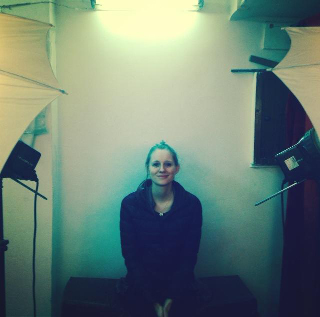
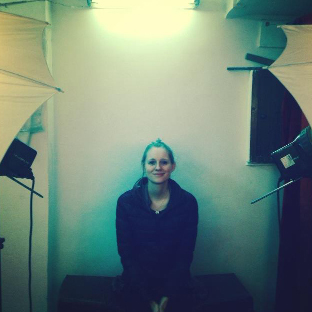
turning pictures to square about

diff --git a/_sass/_layout.scss b/_sass/_layout.scss
@@ -366,3 +366,35 @@ li.herbs {
     }
 }
 
+/**
+ * HOME
+ */
+
+ .thumbnail {
+    padding: 15px 15px 0px 15px;
+    margin: 40px 10px 10px 10px;
+    #name {
+        color: $grey-color-dark;
+    }
+    #icecream {
+        color: $grey-color-dark;
+    }
+    #bio {
+        color: $grey-color;
+    } 
+    #img {
+        position:relative;
+        padding-bottom:100%;
+        margin: auto;
+        overflow:hidden;
+        border-radius: 5px;
+        img {
+            position:absolute;
+        left: -9999px;
+        top: -9999px;
+        right: -9999px;
+        bottom: -9999px;
+        margin: auto;
+        }
+    }
+}

diff --git a/about.md b/about.md
@@ -4,77 +4,56 @@ title: About
 permalink: /about/
 ---
 
-<table id="bio">
-
-  <tr> 
-    <td>
-      <div class="bioleft">
-      <strong>Adam</strong> is a refugee from the world of finance, and previously raised money for countries in Latin America and advised on M&A. He enjoys racing at the velodrome, playing poker, bourbon, and going to DIY gigs in his free time.  
-<br></br> <br></br>
-<em>Favorite Ice Cream?</em> Peanut Butter Cup
+<div class="row">
+  <div class="col-lg-6 col-md-6 col-sm-6 col-sx-12">
+    <div class="thumbnail">
+      <div id="img">
+        <img src="/blog/images/about/adam.jpg">
       </div>
-     </td>
-     <td>
-      <img class="biopicright" src="/blog/images/about/adam.jpg"/>
-    </td> 
-  </tr>
-     
-    <tr>
-    <td>
-    <br> </br>
-    </td>
-</tr>
-     
- <tr> 
-    <td>
-<img class="biopicleft" src="/blog/images/about/emma.jpg"/>
-</td>
-         <td>
-<div class="bioright">
-After graduating <strong>Emma</strong> worked at a newspaper before moving to Delhi and starting a string of jobs with start-ups. Loves yoda, yoga, and six music. Future geek-girl-developer, hoping to one day start her own business and/or replace language with emojis. ☮ :v:
-
-ʕ •ᴥ•ʔ
-<br></br> <br></br>
-<em>Favourite Ice Cream?</em> Rum raisin. Obvs.
-</div>
-</td>
-</tr>>
-
-<tr>
-    <td>
-    <br> </br>
-    </td>
-</tr>
-
-<tr>
-<td>
-<div class="bioleft">
-Having moved to London from Canada two years ago, <strong>Natalia</strong> has finally found her true passion: coding. At the age of 16 she started her own clothing and fashion brand. Out of pure boredom, she become a bartender and also managed a small boutique for her friend. After a couple years doing this the boredom hadn’t subsided. On a whim she booked a flight to Florence, Italy and backpacked solo for six months. She ended up in London where she has studied Psychology at Birkbeck and run a Boutique in Shoreditch. It took her far too long to find her terminal in her computer and get coding. <br></br> <br></br>
-<em>Favourite Ice Cream?</em> Cookie Dough and Mint Oreo
-</div>
-</td>
-<td>
-<img class="biopicright" src="/blog/images/about/Nat.png"/>
-</td>
-</tr>
-
-<tr>
-    <td>
-    <br> </br>
-    </td>
-</tr>
-
-<tr>
-    <td>
-      <img class="biopicleft" src="/blog/images/about/subhan.jpg"/>
-    </td>
-    <td>
-      <div class="bioright">
-      <strong>Subhan</strong> is originally from Pakistan, was born and raised in German and studies in the UK. This international mix has  sparked her love for exploring different cultures, places and cuisines. She just completed her Master’s in Business Psychology at UCL and is looking forward to start her own business in the soon. <br></br> <br></br>
-      <em>Favourite Ice Cream?</em> The best ice cream flavour is called ‘Snowflake’ from Snowflake Gelato which is made out of vanilla ice cream, coconut and white chocolate pieces.
+      <div class="caption">
+        <h3 id="name">Adam</h3>
+        <h5 id="icecream"><em>Favorite Ice Cream?</em> Peanut Butter Cup</h5>
+        <p id="bio"> Adam is a refugee from the world of finance, and previously raised money for countries in Latin America and advised on M&A. He enjoys racing at the velodrome, playing poker, bourbon, and going to DIY gigs in his free time.</p>
       </div>
-    </td>
-</tr>
-</table>
+    </div>
+  </div>
 
+  <div class="col-lg-6 col-md-6 col-sm-6 col-sx-12">
+    <div class="thumbnail">
+      <div id="img">
+        <img src="/blog/images/about/emma.jpg">
+      </div>
+      <div class="caption">
+        <h3 id="name">Emma</h3>
+        <h5 id="icecream"><em>Favourite Ice Cream?</em> Rum raisin. Obvs.</h5>
+        <p id="bio"> After graduating Emma worked at a newspaper before moving to Delhi and starting a string of jobs with start-ups. Loves yoda, yoga, and six music. Future geek-girl-developer, hoping to one day start her own business and/or replace language with emojis. ☮ :v: ʕ •ᴥ•ʔ </p>
+      </div>
+    </div>
+  </div>
 
+  <div class="col-lg-6 col-md-6 col-sm-6 col-sx-12">
+    <div class="thumbnail">
+      <div id="img">
+        <img src="/blog/images/about/natalia.jpg">
+      </div>
+      <div class="caption">
+        <h3 id="name">Natalia</h3>
+        <h5 id="icecream"><em>Favourite Ice Cream?</em> Mint Oreo</h5>
+        <p id="bio">At the age of 16 Natalia started her own clothing and fashion brand. Out of pure boredom, she become a bartender and also managed a boutique. On a whim a couple years later she booked a flight to Florence and backpacked for six months. She ended up in London where she has studied Psychology at Birkbeck and run a Boutique in Shoreditch. It took her far too long to find her terminal in her computer and get coding. </p>
+      </div>
+    </div>
+  </div>
+
+  <div class="col-lg-6 col-md-6 col-sm-6 col-sx-12">
+    <div class="thumbnail">
+      <div id="img">
+        <img src="/blog/images/about/subhan.jpg">
+      </div>
+      <div class="caption">
+        <h3 id="name">Subhan</h3>
+        <h5 id="icecream"><em>Favourite Ice Cream?</em> The best ice cream flavour is called ‘Snowflake’ from Snowflake Gelato which is made out of vanilla ice cream, coconut and white chocolate pieces.</h5>
+        <p id="bio"> Subhan is originally from Pakistan, was born and raised in Germany and studied in the UK. This international mix has sparked her love for exploring different cultures, places and cuisines. She just completed her Master’s in Business Psychology at UCL and is looking forward to start her own business in the soon.</p>
+      </div>
+    </div>
+  </div>
+</div>
